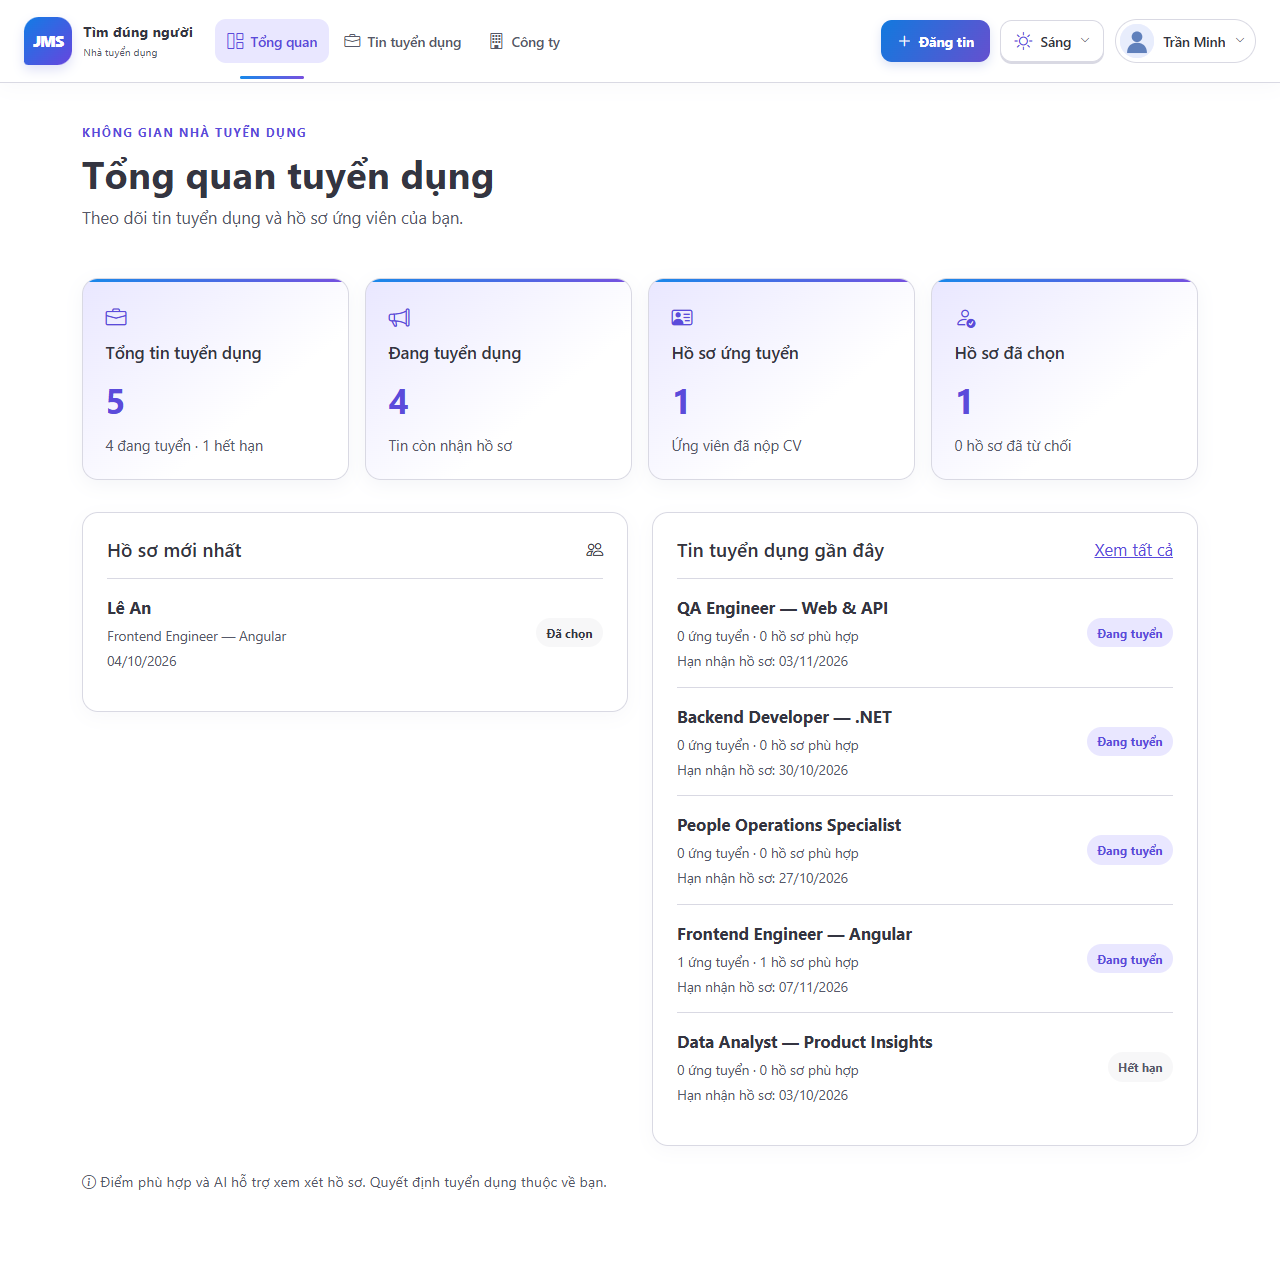
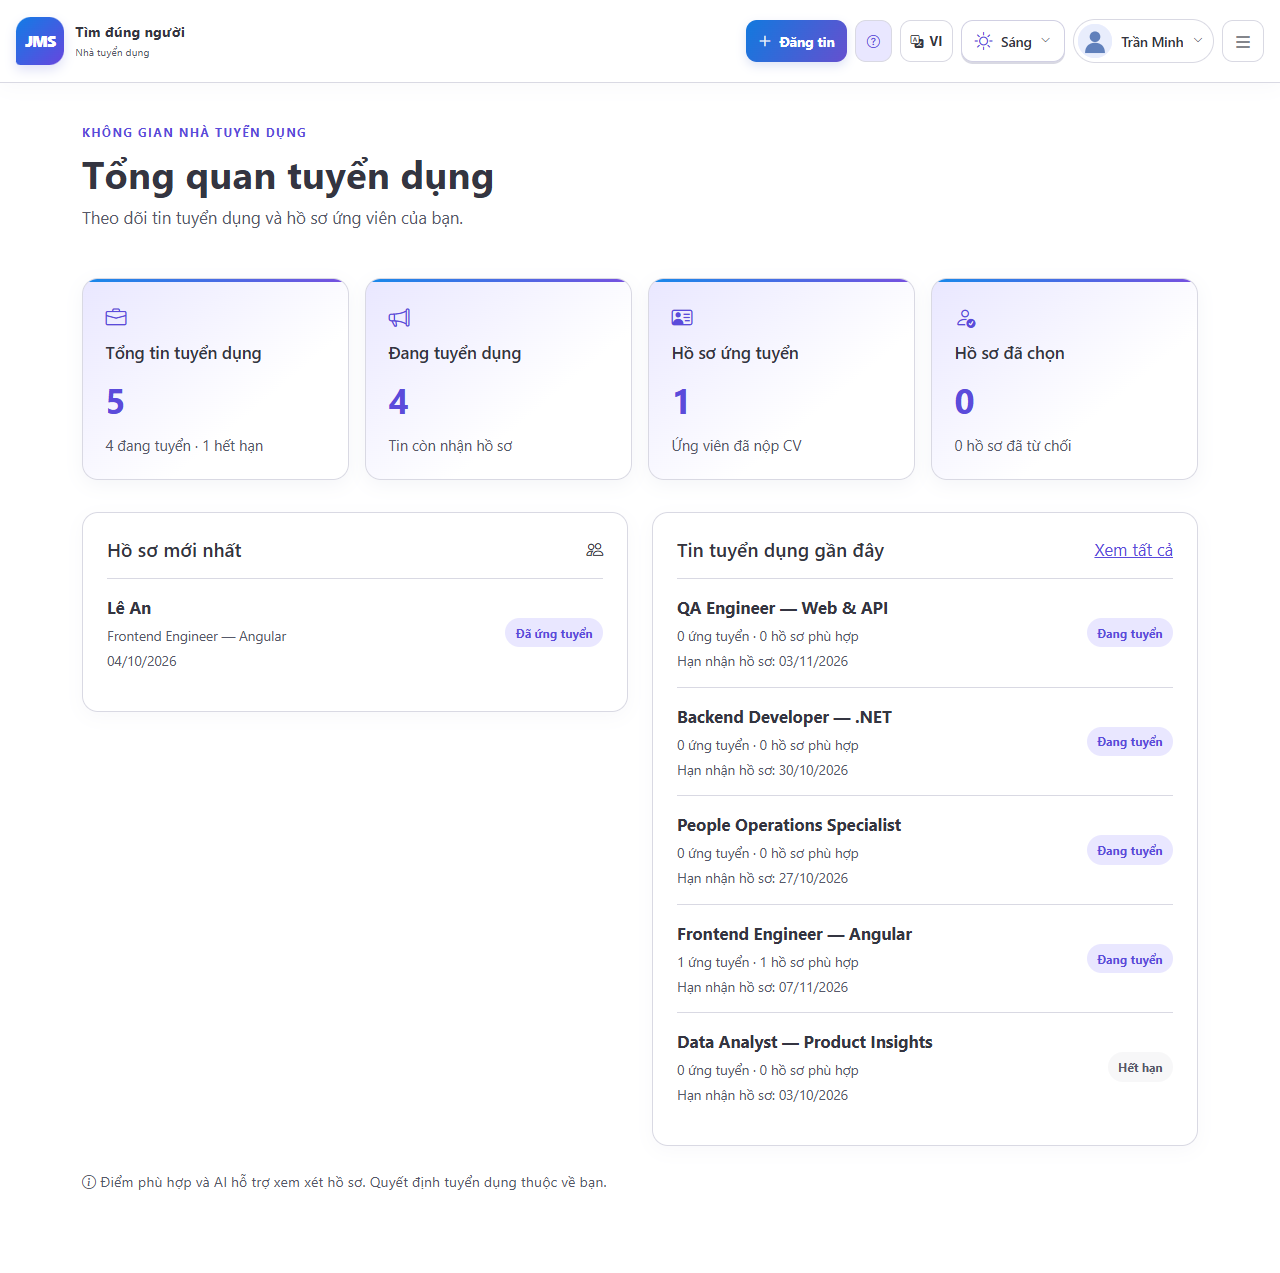
docs: finalize bilingual remaster status and application showcase

diff --git a/docs/project-status.md b/docs/project-status.md
@@ -1,0 +1,86 @@
+# Project status
+
+Updated: 2026-10-07. Implementation branch: `rewrite/jms-2024-remaster`.
+Remaster base: `be107495534b374c8aa93ad9d924328748da7ae7`.
+
+The first recruitment remaster is committed through `1916860`. Its backend and
+frontend builds, focused unit coverage, and five Microsoft Edge signature
+journeys passed. Local production persistence/configuration smoke checks passed.
+Docker execution and live AI calls remained unverified because Docker and real
+provider credentials were unavailable. No external deployment is part of this work.
+
+## Completed refinement
+
+- Shared CV readers handle current CVs and historical application snapshots,
+  omit empty/corrupt sections and load local themes from the frontend origin.
+  Candidate has inline print/edit navigation; Admin and Recruiter share the
+  same accessible preview. Their job readers use one shared document layout.
+- Help is available in the headers through a focus-managed drawer. Search and
+  question/answer behavior remain curated and work without an AI key.
+- EN/VI covers application-owned controls, navigation, route titles, validation,
+  status messages, document headings, help and CKEditor controls. User-authored
+  documents/catalogs retain their original language. Existing FAQs can receive
+  English text in Admin; missing translations have a visible Vietnamese fallback.
+- Admin overview groups operational activity, attention items, community and
+  review outcomes. Statistics adds real UTC activity for 30/90/365 days, open-job
+  categories, company supply and matching explanation states, without PII.
+- Each AI provider has economical and stronger curated choices, provider/model
+  reasoning metadata and bounded adapter payloads. Existing profiles/evaluations
+  remain compatible. Official sources and review date are recorded in `ai.md`.
+- Calibration is a complete six-scene story with four inner voices, six endings,
+  original EN/VI transcreation, partial-session resume and a local ending gallery.
+  No result leaves the browser or affects recruitment.
+- Wider layouts use space for document facts, operational context, game voices
+  and a journal. Theme/account/language menus remain keyboard accessible.
+  Recruiter profile template billing links and unused placeholder components/
+  filtering code were removed. No new runtime dependency was added in this batch.
+
+Calibration uses original authored dialogue and online CC0 artwork by zonked
+and acasas. [Artwork credits](../FrontEnd/src/assets/images/calibration/CREDITS.md)
+record the original sources. No generated artwork is included.
+
+## Verification
+
+Checks were reused unless the changed behavior needed another check.
+
+| Scope | Actual local result |
+| --- | --- |
+| Earlier remaster | Backend build, 54 backend tests, 9 frontend tests, five Edge recruitment journeys and navigation check passed |
+| New backend behavior | 15 focused tests passed: insights/FAQ upgrade and bilingual search, model catalogue and provider request contracts |
+| Production frontend | Build passed; initial bundle ~946 KB raw / 188 KB estimated transfer |
+| New frontend behavior | Six tests passed: CV normalization, EN/VI preference, story integrity and all 4,096 complete game routes |
+| New Edge journeys | Bilingual game/local collection/header help, Candidate CV reader, Admin insights and Admin/Recruiter previews passed |
+| Changed editor | Rich-text draft survived VI → EN → VI, saved and remained correct after reload |
+| Responsive/navigation | All-role keyboard menus, light/dark/system, desktop/tablet/mobile passed; new help/readers/statistics/profile checked at mobile width |
+| Migration | Existing FAQ survived upgrade; clean seeded SQLite initialization passed |
+| Production preparation | Earlier local Production smoke verified health, CORS, no demo seeding and persistence/restart of SQLite, uploads and protected configuration |
+
+Eight README screenshots show the real seeded application. The overview image
+waits for operational data to load. Build/test artifacts and local storage are
+ignored. GitHub Actions runs backend/frontend tests, the single Edge project and
+Docker build targets; consult repository Actions for the latest remote result.
+
+## Deliberate boundaries and remaining limits
+
+- Live provider calls require credentials and were not made. Mock request tests
+  verify payload contracts, not external model quality/account availability.
+- Docker is unavailable on this machine; local container recreation is unverified.
+  Persistent volumes and provider-neutral configuration are supplied for it.
+- Existing installations are not reseeded or automatically translated. Admin must
+  supply English versions of its own help; CV/JD/catalog content stays original.
+- Admin activity describes surviving records and UTC dates, not an immutable audit
+  ledger. Native distributions and grouped bars serve the modest project scope.
+- CKEditor remains because rich text warrants it; its CommonJS notices and hosting
+  license requirements are documented. Historical nullable warnings and the
+  mitigated AutoMapper 12 advisory remain documented in `development.md`.
+- Angular/.NET/SQLite, nine original CV themes, historical `Recuirter` API/schema
+  names and the existing theme/session/matching boundaries are retained.
+- No password recovery, billing, messaging, scheduling, external deployment or
+  autonomous hiring system was added.
+
+The user explicitly authorized publishing and merging after final verification.
+Git history and the final task report record the resulting commits and merge;
+this document does not embed its own commit hash.
+
+See [AI choices and sources](ai.md) for the model review and
+[development](development.md) for local commands.

diff --git a/README.md b/README.md
@@ -4,14 +4,28 @@ A Vietnamese-first recruitment application: candidates build themed CVs, discove
 
 This remaster preserves our graduation project's ideas and recognizable blue/purple lineage while finishing workflows, simplifying the frontend, and preparing the application for later hosting. It remains a modest job board.
 
+The remaster includes integrated CV/job readers, help in the header, persistent
+EN/VI controls, real Admin insights and an original bilingual Calibration story.
+See [project status](docs/project-status.md) for verification and known limits;
+[AI choices](docs/ai.md) records the official model sources and economical/stronger
+options for each provider.
+
+Calibration is authored interactive fiction for entertainment. Its results stay
+on your device and never affect recruitment. Its online CC0 backgrounds carry
+discreet in-game credits; [artwork sources](FrontEnd/src/assets/images/calibration/CREDITS.md)
+identify the original artists. No AI-generated artwork is included.
+
 ![JMS job discovery](docs/screenshots/candidate-discovery.png)
 
 ## Product
 
 - **Candidate:** server-side job search and filters, company profiles, saved jobs, nine original CV themes, CV editing and previews, application history and matching evidence.
 - **Recruiter:** real dashboard, searchable active/expired jobs, job and company editing, candidate review, shortlist and rejection actions.
-- **Admin:** real recruitment statistics, paged account/company management, protected AI profiles, matching catalogs and curated help.
-- **Every role:** coherent sign-in/register flows, grouped navigation with active destinations, account menus, a keyboard-accessible System/Light/Dark dropdown, notifications, accessible confirmations and responsive layouts.
+- **Admin:** organized operational overview, real 30/90/365-day activity statistics, account/company management, shared document previews, protected AI profiles, matching catalogs and bilingual curated help.
+- **Every role:** coherent sign-in/register flows, grouped navigation, account menus, keyboard-accessible System/Light/Dark and EN/VI dropdowns, header help, notifications, confirmations and responsive layouts.
+- **Calibration:** six illustrated scenes, four disagreeing inner voices, six endings, a local journal and ending collection. Original EN/VI writing keeps the humour and atmosphere in both languages. It is entertainment, not a personality assessment or hiring signal.
+
+Language preferences change application labels, validation, menus, help and rich-text editor controls. CVs, job descriptions and administrator-authored catalog names keep their original language. Existing help entries without English text show an explicit Vietnamese fallback; Admin can add their English versions.
 
 The fictional demo includes two distinct studios, eight job listings across engineering, design, content and operations, two detailed CVs and real rule-based matching snapshots. Workplace photographs are served locally; the blue/purple identity, layered cards and original CV themes give JMS its own character. Motion respects reduced-motion preferences.
 
@@ -58,7 +72,7 @@ npm test
 npx playwright test
 ```
 
-Playwright uses **Microsoft Edge only**, a fresh isolated demo database and the production Angular build. Five signature journeys cover discovery/saved jobs/application, CV editing, recruiter review, rich-text job editing and admin management. One focused navigation check covers keyboard menus, theme choices, all roles and desktop/tablet/mobile layouts. Set `JMS_SCREENSHOTS=1` to refresh the six real application screenshots below.
+Playwright uses **Microsoft Edge only**, a fresh isolated demo database and the production Angular build. Five signature journeys cover recruitment workflows; one navigation check covers keyboard menus and desktop/tablet/mobile themes. Three refinement journeys cover bilingual Calibration and help, the Candidate CV reader, and real Admin insights with Admin/Recruiter previews. Rich-text editing also checks that switching language preserves the unsaved draft. Set `JMS_SCREENSHOTS=1` to refresh the real application screenshots below.
 
 GitHub Actions verifies backend, frontend, Edge journeys and both Docker build targets. It does not publish images or deploy.
 
@@ -75,14 +89,18 @@ See [development](docs/development.md), [architecture](docs/architecture.md) and
 
 ## Real seeded application
 
-| Job details | CV library |
+| Job details | Integrated CV reader |
 | --- | --- |
-| ![Job details](docs/screenshots/job-details.png) | ![CV library](docs/screenshots/cv-library.png) |
+| ![Job details](docs/screenshots/job-details.png) | ![CV reader](docs/screenshots/cv-reader.png) |
 
 | Recruiter dashboard | Candidate review |
 | --- | --- |
 | ![Recruiter dashboard](docs/screenshots/recruiter-dashboard.png) | ![Candidate review](docs/screenshots/recruiter-review.png) |
 
-![Admin dashboard](docs/screenshots/admin-dashboard.png)
+| Admin overview | Recruitment statistics |
+| --- | --- |
+| ![Admin overview](docs/screenshots/admin-dashboard.png) | ![Recruitment statistics](docs/screenshots/admin-statistics.png) |
+
+![Calibration — The Department of Tomorrow](docs/screenshots/calibration.png)
 
 The original CV themes and compatible APIs/schema are retained. Password recovery is deliberately absent until a proper expiring reset-token workflow exists. Help uses curated FAQ content; AI is scoped to matching explanations.

diff --git a/docs/ai.md b/docs/ai.md
@@ -1,0 +1,57 @@
+# AI choices in JMS
+
+Deterministic matching decides eligibility and scores. A configured AI provider
+adds bounded explanation; it never selects or rejects applicants. Calibration
+is separate, authored interactive fiction and makes no AI requests.
+
+## Curated models
+
+Reviewed against official API documentation on **2026-10-06**. Each provider has
+an economical option and a stronger option. Start with the economical model;
+compare explanations on representative fictional CV/job pairs before spending
+more. Model availability depends on the API account, region, and provider.
+
+| Provider | Economical | Stronger | JMS reasoning controls |
+| --- | --- | --- | --- |
+| OpenAI | GPT-6 Luna (`gpt-6-luna`) | GPT-6.1 Sol (`gpt-6.1-sol`) | Luna: none/low/medium/high; Sol: low/medium/high |
+| Anthropic | Claude Haiku 4.5 (`claude-haiku-4-5-20251001`) | Claude Sonnet 5.5 (`claude-sonnet-5-5`) | Haiku: disabled or 1,024-token thinking budget; Sonnet: low/medium/high effort |
+| Google | Gemini 3.5 Flash-Lite (`gemini-3.5-flash-lite`) | Gemini 3.8 Flash (`gemini-3.8-flash`) | Flash-Lite: minimal/low/medium/high; Flash: low/medium/high |
+
+JMS exposes a bounded subset of supported reasoning options. Sol does not accept
+`none`; Gemini 3.8 Flash does not accept `minimal`. Sonnet 5.5 uses provider effort
+controls and `between_tools` thinking, rather than the old Haiku budget payload.
+The backend capability catalogue supplies the frontend options. Historical
+profiles retain their compatible model definitions and historical evaluations
+keep their original provider/model metadata.
+
+Prices change, so the application does not present a fixed cost quotation.
+Google's current 3.8 Flash pricing explicitly changes on 2027-01-01. Consult the
+provider pricing page before enabling a profile. Connection tests are bounded;
+they do not establish explanation quality or guarantee later quota availability.
+
+Official references:
+
+- [GPT-6 Luna](https://developers.openai.com/api/docs/models/gpt-6-luna)
+- [GPT-6.1 Sol](https://developers.openai.com/api/docs/models/gpt-6.1-sol)
+- [Claude models](https://platform.claude.com/docs/en/models/overview)
+- [Haiku 4.5](https://platform.claude.com/docs/en/models/haiku-4-5/overview)
+- [Sonnet 5.5](https://platform.claude.com/docs/en/models/sonnet-5-5/overview)
+- [Claude effort](https://platform.claude.com/docs/en/build-with-claude/effort)
+- [Claude pricing](https://platform.claude.com/docs/en/about-claude/pricing)
+- [Gemini 3.5 Flash-Lite](https://ai.google.dev/gemini-api/docs/models/gemini-3.5-flash-lite)
+- [Gemini 3.8 Flash](https://ai.google.dev/gemini-api/docs/models/gemini-3.8-flash)
+- [Gemini thinking controls](https://ai.google.dev/gemini-api/docs/thinking)
+- [Gemini pricing](https://ai.google.dev/gemini-api/docs/pricing)
+
+## Keys and failure behavior
+
+Keys remain server-side, encrypted using ASP.NET Data Protection. Persist the key
+ring alongside the SQLite database: losing it makes stored credentials unreadable.
+The UI receives only key-presence metadata. Replacing a key requires entering a
+new value; stored keys cannot be revealed. AI failure preserves deterministic
+matching and records fallback status. Source size, output, and request time are
+bounded. CV and job text are treated as untrusted content.
+
+See [development](development.md) for setup and [deployment](deployment.md) for
+key-ring persistence. Live calls need real provider credentials; mocked adapter
+verification must not be described as a successful live-provider integration.

diff --git a/docs/architecture.md b/docs/architecture.md
@@ -17,3 +17,29 @@ Admin profiles use Data Protection for keys. Reads return only key-presence flag
 JWT and origins are configured externally. `LocalImageStorage` owns image roots, validated signatures/sizes, path containment and unique snapshot copies. SQLite, the key ring and uploads need persistent storage; none belongs in a disposable container layer. See [deployment](deployment.md).
 
 Bootstrap utilities and JMS design tokens own the UI, Bootstrap Icons own icons, CDK owns dialogs/focus primitives, and CKEditor owns rich text. Material, legacy fetch/auth utilities, Highcharts and redundant filtering/pagination/toast packages were removed.
+
+## Shared presentation and language
+
+The shared CV normalizer reads both editable camel-case CVs and historical
+Pascal-case application snapshots. Empty or malformed sections do not create
+placeholder rows. Candidate has an inline reader with print/edit navigation;
+Recruiter and Admin use the same paper inside accessible CDK dialogs. A neutral
+job document component supplies their job readers. Uploaded images use the API
+origin; application-owned theme assets use the frontend origin.
+
+`I18nService` owns the persisted EN/VI preference, HTML language and application
+dictionary. Route titles, menus, messages and editor controls follow it;
+user-authored documents remain untouched. FAQ records have optional English
+fields, search both languages and explicitly identify a Vietnamese fallback.
+Header help opens the existing search/question workflow in a focus-managed drawer.
+
+Admin insights query real SQLite data: UTC activity, recruitment supply, review
+states and operational attention counts. The API is Admin-only and returns
+aggregates rather than candidate contact details. Simple native bars replace a
+chart framework. Some measures describe current surviving records, not an
+immutable analytics ledger.
+
+Calibration is original interactive fiction with six scenes and six endings.
+Its partial route and optional ending collection stay in local browser storage;
+there is no server result, AI request or connection to matching. Online CC0
+artwork credits are preserved in the game and asset directory.

diff --git a/docs/development.md b/docs/development.md
@@ -31,9 +31,25 @@ dotnet ef database update --project BackEnd/BackEndApplication/APIServer
 
 Use the same configured environment and database path as the API. Back up before an existing-database upgrade. Preserve Data Protection keys with the database so encrypted AI keys remain readable.
 
+`20261006210000_AddBilingualHelp` adds nullable English FAQ fields without
+replacing existing questions. A fresh demo includes bilingual workflow guides.
+Existing installations retain their own help content: add English versions in
+Admin → JMS settings → Help content, or accept the visibly marked Vietnamese
+fallback. Changing language never translates CVs, jobs or managed catalog text.
+
+The header language menu persists EN/VI; the adjacent help button works without
+scrolling to the page footer. Calibration is public at `/candidate/calibration`.
+Its six scenes and ending collection work without a login or provider key. Saves
+are local to the browser/device, and clearing browser storage removes them.
+Artwork sources and reuse licenses are in the asset directory's `CREDITS.md`.
+
 ## AI
 
 Use Admin → Cài đặt JMS to add a profile, select backend-provided model/reasoning choices, supply a key, test access and activate it for matching. No key is required for development or tests. Server environment fallbacks support `Ai__Provider` and `Ai__Gemini|OpenAI|Anthropic__ApiKey`, `__Model`, `__ReasoningLevel`; use nested .NET setting names, for example `Ai__OpenAI__ApiKey`. Keys must never be committed or supplied to frontend config.
+
+See [AI choices](ai.md) for the curated economical/stronger tiers and official
+model references. Existing profiles are retained; changing the default model
+does not alter historical matching metadata.
 
 ## Checks
 

diff --git a/AGENTS.md b/AGENTS.md
@@ -69,6 +69,14 @@ retain System/Light/Dark through ThemeService. Preserve JMS blue/purple characte
 visual depth and restrained feedback. Respect reduced-motion preferences. Credit
 downloaded images and keep fictional demo content clearly identified.
 
+Provide EN/VI for application-owned labels, messages, controls and curated help.
+Do not silently translate user-authored CVs or job descriptions. Calibration is
+entertainment with original bilingual writing, not a psychological assessment
+or hiring signal. Its results stay local and never affect matching. Use online
+art with explicit reuse permission and discreet original-source/artist/license
+credits; do not add AI-generated artwork. Noncommercial intent alone does not
+establish permission to reuse commercial game assets.
+
 Deterministic matching remains authoritative. AI gives bounded explanation and
 evidence, never automatic hiring/rejection. Target Gemini, OpenAI, and Anthropic
 through small provider adapters and backend capability metadata. Keep provider

diff --git a/docs/deployment.md b/docs/deployment.md
@@ -57,6 +57,11 @@ tool installed and the same production environment variables supplied:
 dotnet ef database update --project BackEnd/BackEndApplication/APIServer/APIServer.csproj
 ```
 
+The bilingual-help migration adds nullable columns and preserves existing FAQ
+content. It does not translate or reseed a populated database. Fill optional
+English help fields through Admin after upgrade. Browser language preferences
+and Calibration saves are local client state, not server persistence requirements.
+
 Do not copy a running SQLite file without a consistent backup method. Stop writes
 for a filesystem backup, or use SQLite's backup facility; preserve associated WAL
 state as appropriate. Never remove volumes as a routine restart procedure.
